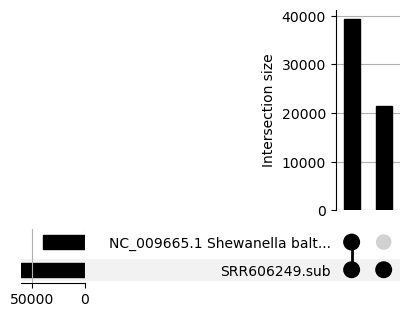
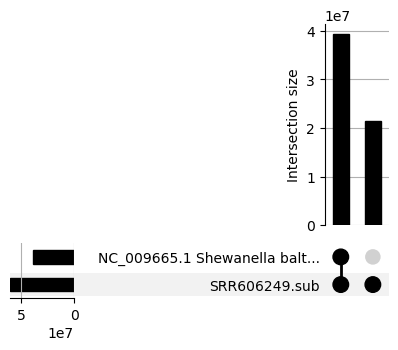
fix; bump v

diff --git a/src/sourmash_plugin_betterplot.py b/src/sourmash_plugin_betterplot.py
@@ -1191,7 +1191,7 @@ class Command_Upset(CommandLinePlugin):
             # subtracting the union of all previous from each.
             notify(f"generating intersections...")
             names, combos = isect_all_sigs(siglist, start=start)
-            counts = [ len(c) for c in combos ]
+            counts = [ len(c)*scaled for c in combos ]
             notify(
                 f"\n...done! {len(names)} intersections of {len(names)} total."
             )
@@ -1305,12 +1305,6 @@ class Command_WeightedUpset(CommandLinePlugin):
 
         keep_zero = args.keep_zero
 
-        # https://docs.python.org/3/library/itertools.html
-        def powerset(iterable, *, start=2):
-            "powerset([1,2,3]) → () (1,) (2,) (3,) (1,2) (1,3) (2,3) (1,2,3)"
-            s = list(iterable)
-            return chain.from_iterable(combinations(s, r) for r in range(start, len(s)+1))
-
         select_mh = sourmash_utils.create_minhash_from_args(args)
         print(f"selecting sketches: {select_mh}")
         scaled = select_mh.scaled
@@ -1393,7 +1387,7 @@ class Command_WeightedUpset(CommandLinePlugin):
         else:
             notify(f"generating weighted intersections...")
             names, combos = isect_all_sigs(siglist)
-            counts = [ mh.inflate(main_mh).sum_abundances for mh in combos ]
+            counts = [ mh.inflate(main_mh).sum_abundances*scaled for mh in combos ]
 
             # @CTB
             notify(f"\n...done! {len(names)} non-empty intersections of {len(names)} total.")
